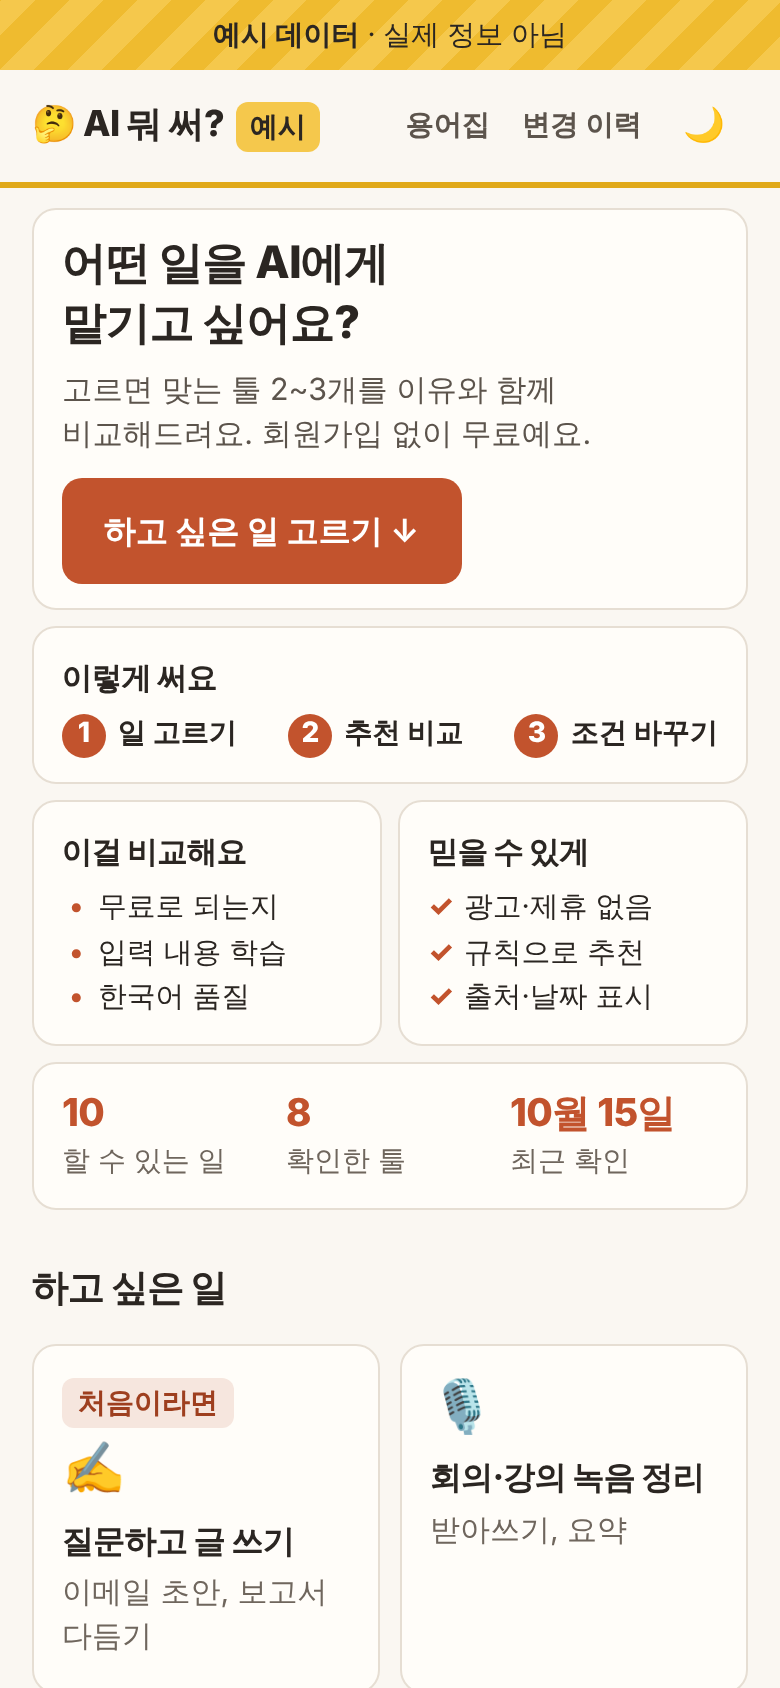
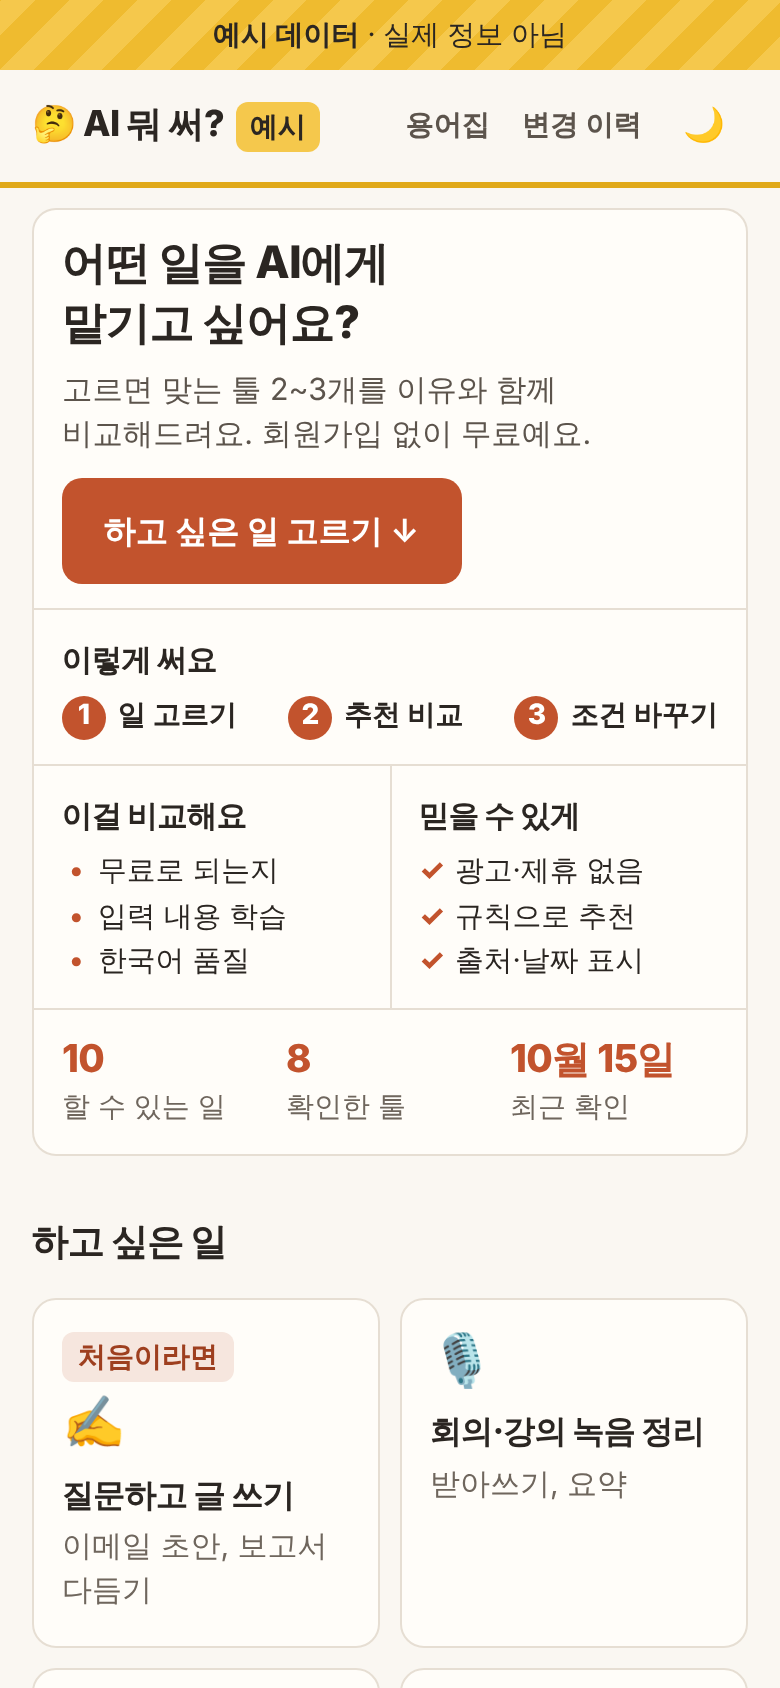
홈 서비스 소개를 카드 하나로 합침 (4개 사이트 공통)
Claude-Session: https://claude.ai/code/session_01QQRAWjw2wPbPwhcyFyPCEq

diff --git a/css/styles.css b/css/styles.css
@@ -192,14 +192,18 @@ h1, h2, h3 { letter-spacing: -0.02em; }
 }
 .intro-what .sub, .page-sub { color: var(--sub); font-size: 1.05rem; margin: 12px 0 0; }
 
-/* ---- 홈 소개: 카드 묶음 (한 화면에 들어가게) ---- */
-.intro {
+/* ---- 홈 소개: 카드 하나, 안을 칸으로 나눈다 (한 화면에 들어가게).
+   칸 사이 1px 틈으로 카드 배경(선 색)이 보여서 구분선이 된다. ---- */
+.card.intro {
   display: grid;
   grid-template-columns: repeat(2, minmax(0, 1fr));
-  gap: 10px;
-  padding: 20px 0 24px;
+  gap: 1px;
+  padding: 0;
+  margin: 20px 0 28px;
+  overflow: hidden;
+  background: var(--line);
 }
-.intro .card { margin: 0; padding: 16px; }
+.intro-part { background: var(--surface); padding: 16px; }
 .intro-what { grid-column: 1 / -1; }
 .intro-go { margin-top: 14px; padding: 10px 18px; min-height: 44px; }
 .intro-how, .intro-stats { grid-column: 1 / -1; }
@@ -228,8 +232,8 @@ h1, h2, h3 { letter-spacing: -0.02em; }
 .stat-num { font-size: 1.35rem; font-weight: 800; letter-spacing: -0.02em; color: var(--accent); line-height: 1.3; }
 .stat-label { font-size: 0.875rem; color: var(--muted); }
 @media (min-width: 900px) {
-  .intro { grid-template-columns: repeat(3, minmax(0, 1fr)); gap: 14px; padding-top: 28px; }
-  .intro .card { padding: 20px; }
+  .card.intro { grid-template-columns: repeat(3, minmax(0, 1fr)); margin-top: 28px; }
+  .intro-part { padding: 22px; }
   .intro-what { grid-column: span 2; }
   .intro-how { grid-column: auto; }
   .intro-stats { grid-column: auto; }
@@ -625,14 +629,14 @@ body.has-sticky-cta { padding-bottom: 76px; }
   .topnav a { padding: 6px 7px; font-size: 0.88rem; }
   .page-title { font-size: 1.65rem; }
   .card { padding: 20px 16px; }
-  .intro { padding-top: 14px; gap: 8px; }
-  .intro .card { padding: 12px 14px; }
+  .card.intro { margin-top: 14px; }
+  .intro .intro-part { padding: 12px 14px; }
   .intro-what h1 { font-size: 1.4rem; }
   .intro-what .sub { font-size: 0.95rem; margin-top: 6px; }
   .intro-go { margin-top: 10px; }
   .intro-title { margin-bottom: 6px; }
   /* 작은 휴대폰에서도 소개 카드가 한 화면에 들어가게 */
-  .intro { padding-top: 10px; }
+  .card.intro { margin-top: 10px; }
   .intro-what .eyebrow { display: none; }
   .intro-what .sub { line-height: 1.5; }
   .intro-steps li { display: flex; align-items: center; gap: 6px; }

diff --git a/js/app.js b/js/app.js
@@ -107,31 +107,31 @@ const demoInvite = () => (data.demo || data.tools.length > 0 ? '' : `
   </section>`);
 
 // ---- 홈 ----
-// 맨 위는 서비스 소개 카드 묶음(한 화면에 들어가게), 그 아래 목적 타일.
+// 맨 위는 서비스 소개 카드 하나(안을 칸으로 나눔, 한 화면에 들어가게), 그 아래 목적 타일.
 function introHtml() {
   const dates = data.tools.map((t) => t.last_verified).sort();
   const stat = (num, label) => `<div class="stat"><span class="stat-num">${num}</span><span class="stat-label">${esc(label)}</span></div>`;
   return `
-    <section class="intro" aria-label="${esc(mode.siteName)} 소개">
-      <div class="card intro-what">
+    <section class="card intro" aria-label="${esc(mode.siteName)} 소개">
+      <div class="intro-part intro-what">
         <p class="eyebrow">${esc(mode.eyebrow)}</p>
         <h1>${mode.heroHtml}</h1>
         <p class="sub">${esc(mode.heroSub)}</p>
         <button type="button" class="btn btn-primary intro-go" data-scroll="purposes-title">하고 싶은 일 고르기 ↓</button>
       </div>
-      <div class="card intro-card intro-how">
+      <div class="intro-part intro-how">
         <h2 class="intro-title">이렇게 써요</h2>
         <ol class="intro-steps">${mode.introSteps.map((s) => `<li>${esc(s)}</li>`).join('')}</ol>
       </div>
-      <div class="card intro-card">
+      <div class="intro-part">
         <h2 class="intro-title">이걸 비교해요</h2>
         <ul class="intro-list">${mode.introChecks.map((s) => `<li>${esc(s)}</li>`).join('')}</ul>
       </div>
-      <div class="card intro-card">
+      <div class="intro-part">
         <h2 class="intro-title">믿을 수 있게</h2>
         <ul class="intro-list intro-trust">${mode.trust.map((s) => `<li>${esc(s)}</li>`).join('')}</ul>
       </div>
-      <div class="card intro-card intro-stats">
+      <div class="intro-part intro-stats">
         <h2 class="intro-title">한눈에</h2>
         <div class="stats">
           ${stat(data.purposes.length, '할 수 있는 일')}

diff --git a/docs/decisions.md b/docs/decisions.md
@@ -37,7 +37,7 @@
 | 2026-10-22 | 글꼴 | Awscal과 같은 Pretendard 하나만 쓴다. 명조(Noto Serif KR)는 없앴고, 제목은 굵기 800과 좁은 자간(-0.02em)으로 구분한다. |
 | 2026-10-22 | 디자인 개편 (4개 사이트 공통) | 홈: 목적을 타일(휴대폰 2열, 560px 이상 3열, 900px 이상 5열)로 보여주고 누르면 바로 결과. 조건 선택 화면을 없애고 결과 위 칩으로 바꾼다 (`#/p/<목적>` 주소도 결과로 간다). 결과 카드: 대표 이유 1개 + 배지 3개(비개발자용 무료·학습 정책·한국어 / 개발자용 무료·오픈소스·코드 학습) + 공식 사이트 버튼만 보이고, 나머지는 "자세히 보기"에 접는다. 비교 항목 이름은 밑줄 대신 ⓘ로 용어 풀이를 연다. 상세: 넓은 화면은 왼쪽 요약(고정) + 오른쪽 내용, 휴대폰은 "공식 사이트 열기"를 화면 아래 고정. 실제 데이터가 없으면 "예시로 둘러보기" 안내. 예시 데이터 띠는 "예시 데이터 · 실제 정보 아님"으로 줄임. 흐린 글자색을 더 진하게(#6f665d). |
 | 2026-10-22 | 개발자용 구분 | 로고를 "🛠 AI 뭐 써? [개발자용]"으로 줄이고(좁은 화면에서도 상단 메뉴를 숨기지 않음), 포인트 색을 청록(#1f6f6b, 다크 모드 #5fb8b0)으로 바꿔 일반용과 구분한다. 비교 항목 이름은 짧게(무료 사용, 코드 학습 등). |
-| 2026-10-22 | 홈 소개 카드 (4개 사이트 공통) | 홈 맨 위에 서비스 소개 카드 묶음: 무엇(제목·설명·"하고 싶은 일 고르기" 버튼), 이렇게 써요(3단계), 이걸 비교해요, 믿을 수 있게, 한눈에(할 수 있는 일 수·확인한 툴 수·최근 확인 날짜, 데이터에서 계산). 휴대폰(375×667 이상)과 컴퓨터 모두 한 화면에 들어가게 문구를 짧게 둔다. 기존 홈 제목 영역과 아래쪽 신뢰 문구 줄은 이 카드로 합쳤다. "처음이라면" 안내는 겹치지 않게 소개 카드에는 넣지 않고 타일 표시로만 한다 (J 확인). |
+| 2026-10-22 | 홈 소개 카드 (4개 사이트 공통) | 홈 맨 위에 서비스 소개 카드 하나 (안을 칸으로 나눔, 그 아래에 기능): 무엇(제목·설명·"하고 싶은 일 고르기" 버튼), 이렇게 써요(3단계), 이걸 비교해요, 믿을 수 있게, 한눈에(할 수 있는 일 수·확인한 툴 수·최근 확인 날짜, 데이터에서 계산). 휴대폰(375×667 이상)과 컴퓨터 모두 한 화면에 들어가게 문구를 짧게 둔다. 기존 홈 제목 영역과 아래쪽 신뢰 문구 줄은 이 카드로 합쳤다. "처음이라면" 안내는 겹치지 않게 소개 카드에는 넣지 않고 타일 표시로만 한다 (J 확인). |
 | 2026-10-22 | 대표 추천 이유 | 켠 조건과 관련된 이유를 맨 앞(카드에 크게 보이는 한 줄)에 둔다. 켠 조건이 여럿이면 비개발자용 보안 → 무료 → 한국어 → 휴대폰, 개발자용 오픈소스 → 무료 순. 관련 이유가 없으면 적합도 문장이 대표 이유. 휴대폰 조건을 켜고 앱이 있으면 "휴대폰 앱으로도 쓸 수 있어요"를 붙인다 (조건을 빼서 찾은 결과에는 안 붙임). 로직은 `js/recommend.js`. |
 | 2026-10-22 | 휴대폰 결과 카드 | 옆으로 넘기기(점 표시) 대신 세로로 쌓는다. 넓은 화면은 3개 나란히 그대로, 그리고 한 카드의 "자세히 보기"를 열면 세 카드가 함께 열린다. |
 | 2026-10-22 | 읽기·누르기 편하게 | 가장 작은 글자 14px(타일 설명 15px). 조건 칩·상단 메뉴·테마 버튼·닫기 버튼은 누르는 범위 44px 이상, ⓘ는 보이는 크기는 작게 두고 누르는 범위만 넓힌다. 조건 칩은 짧은 이름(무료만·보안 중요·한국어 중요·휴대폰 앱 / 무료로 시작·오픈소스만)과 💸 그림을 쓰고, 좁은 화면에서는 2칸씩 놓는다. 실제 데이터가 없으면 결과 화면에 칩을 숨긴다. 상세 화면 요약 카드의 확인 날짜는 "정보 확인"과 겹쳐서 뺐다. 기기에서 "동작 줄이기"를 켜면 움직임 없이 이동한다. |
